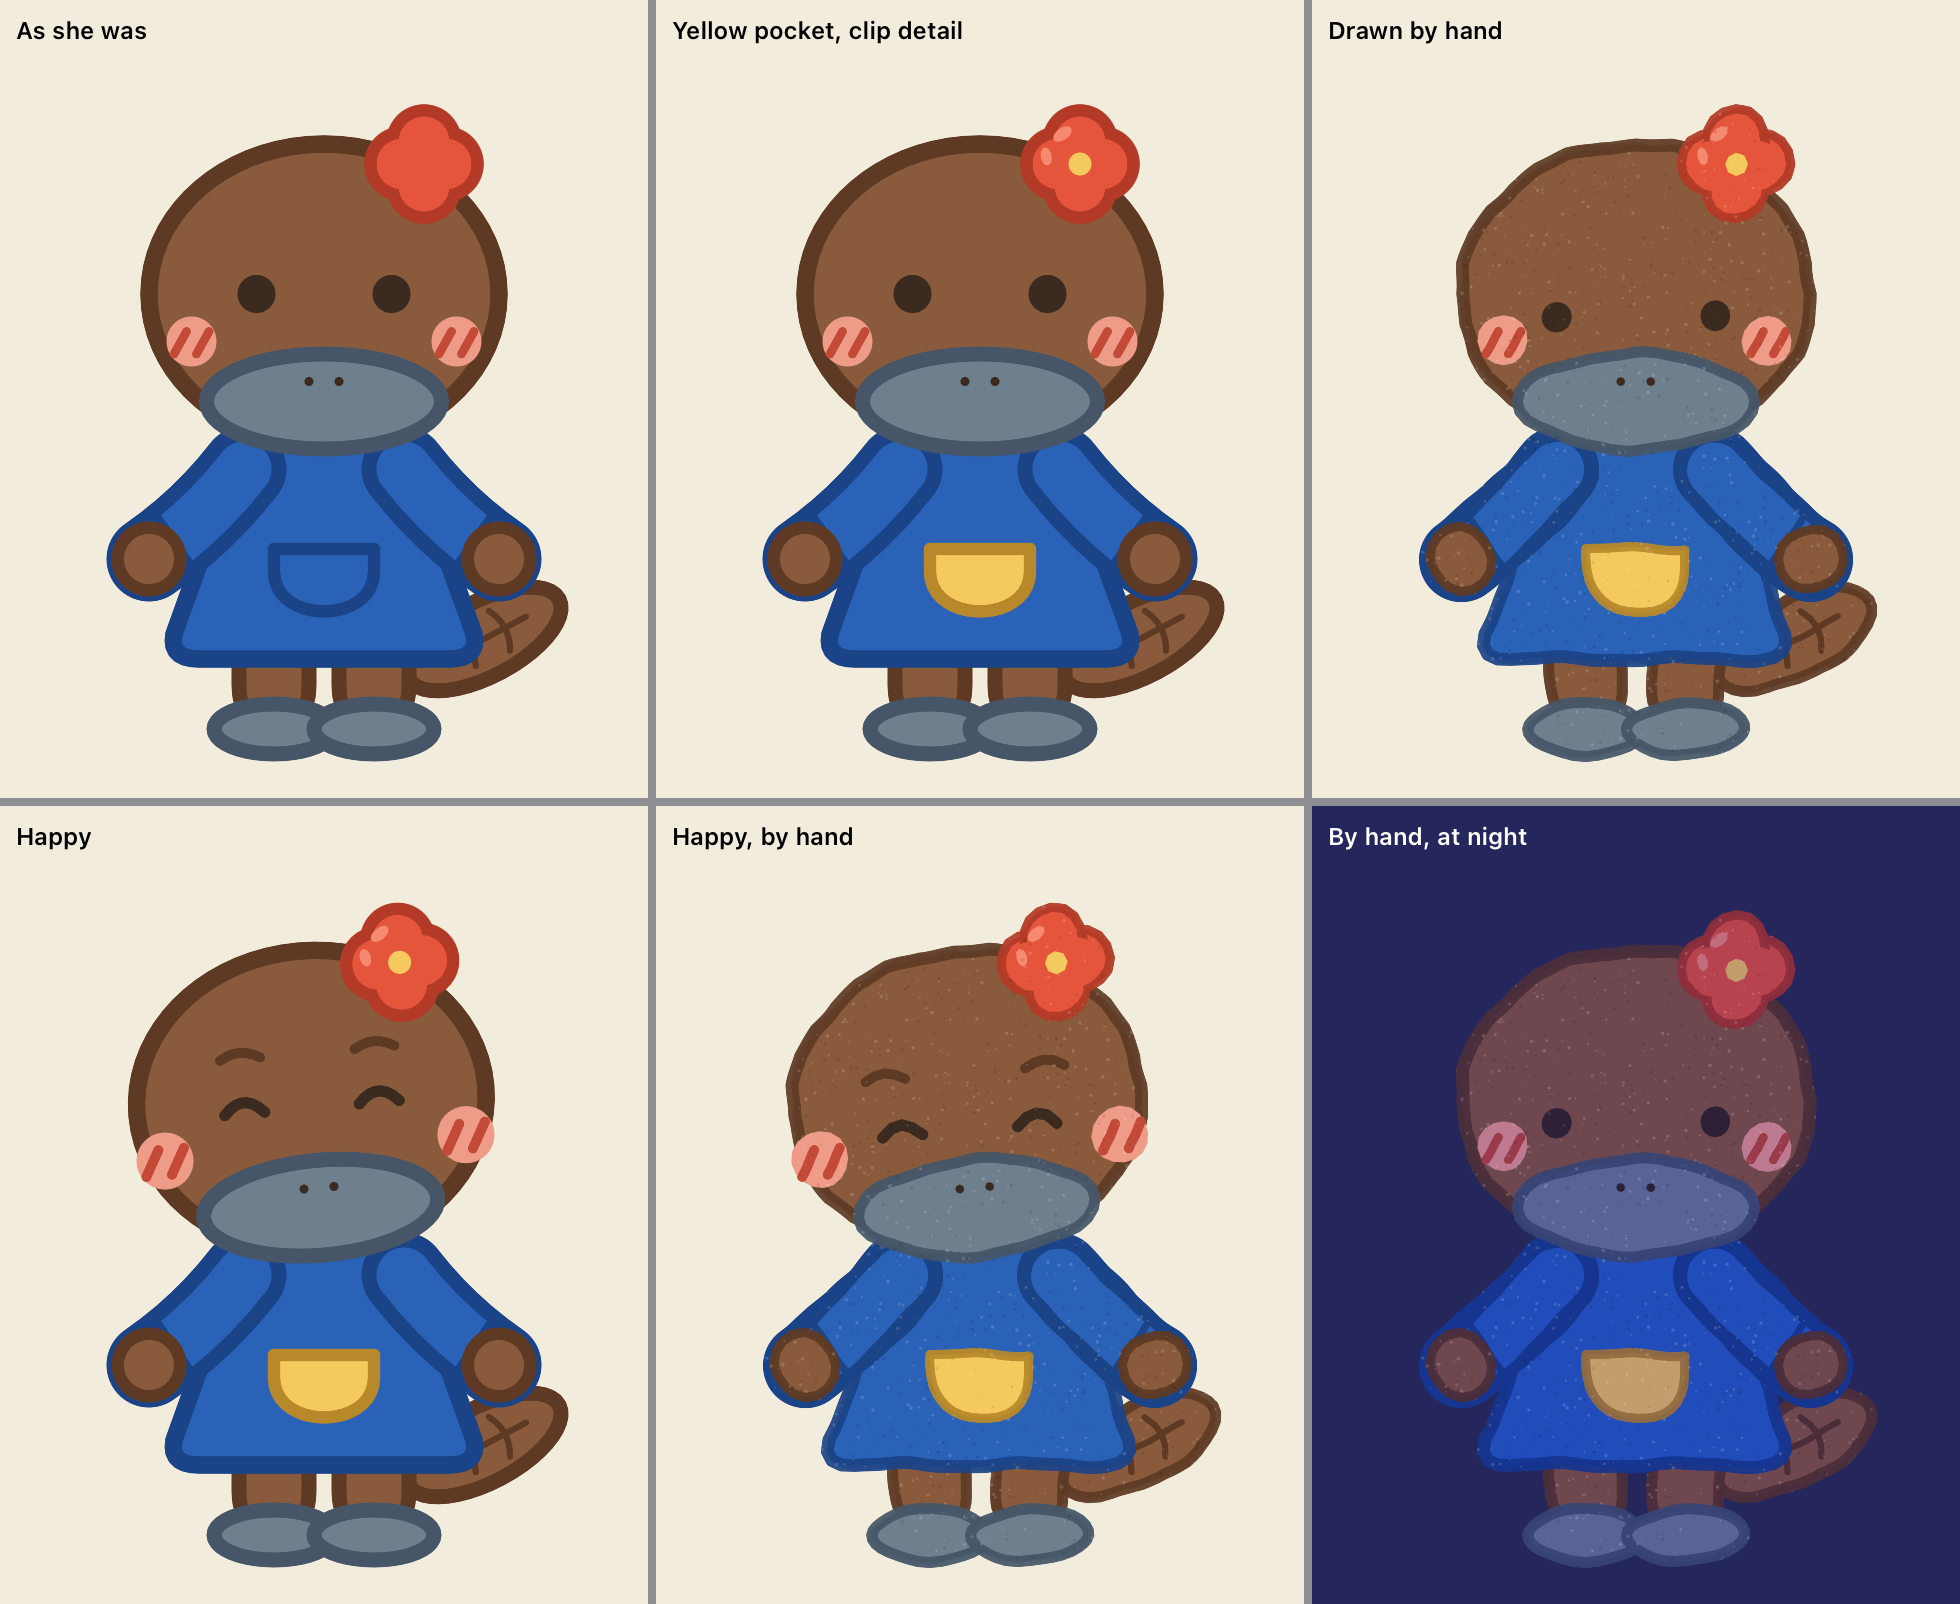
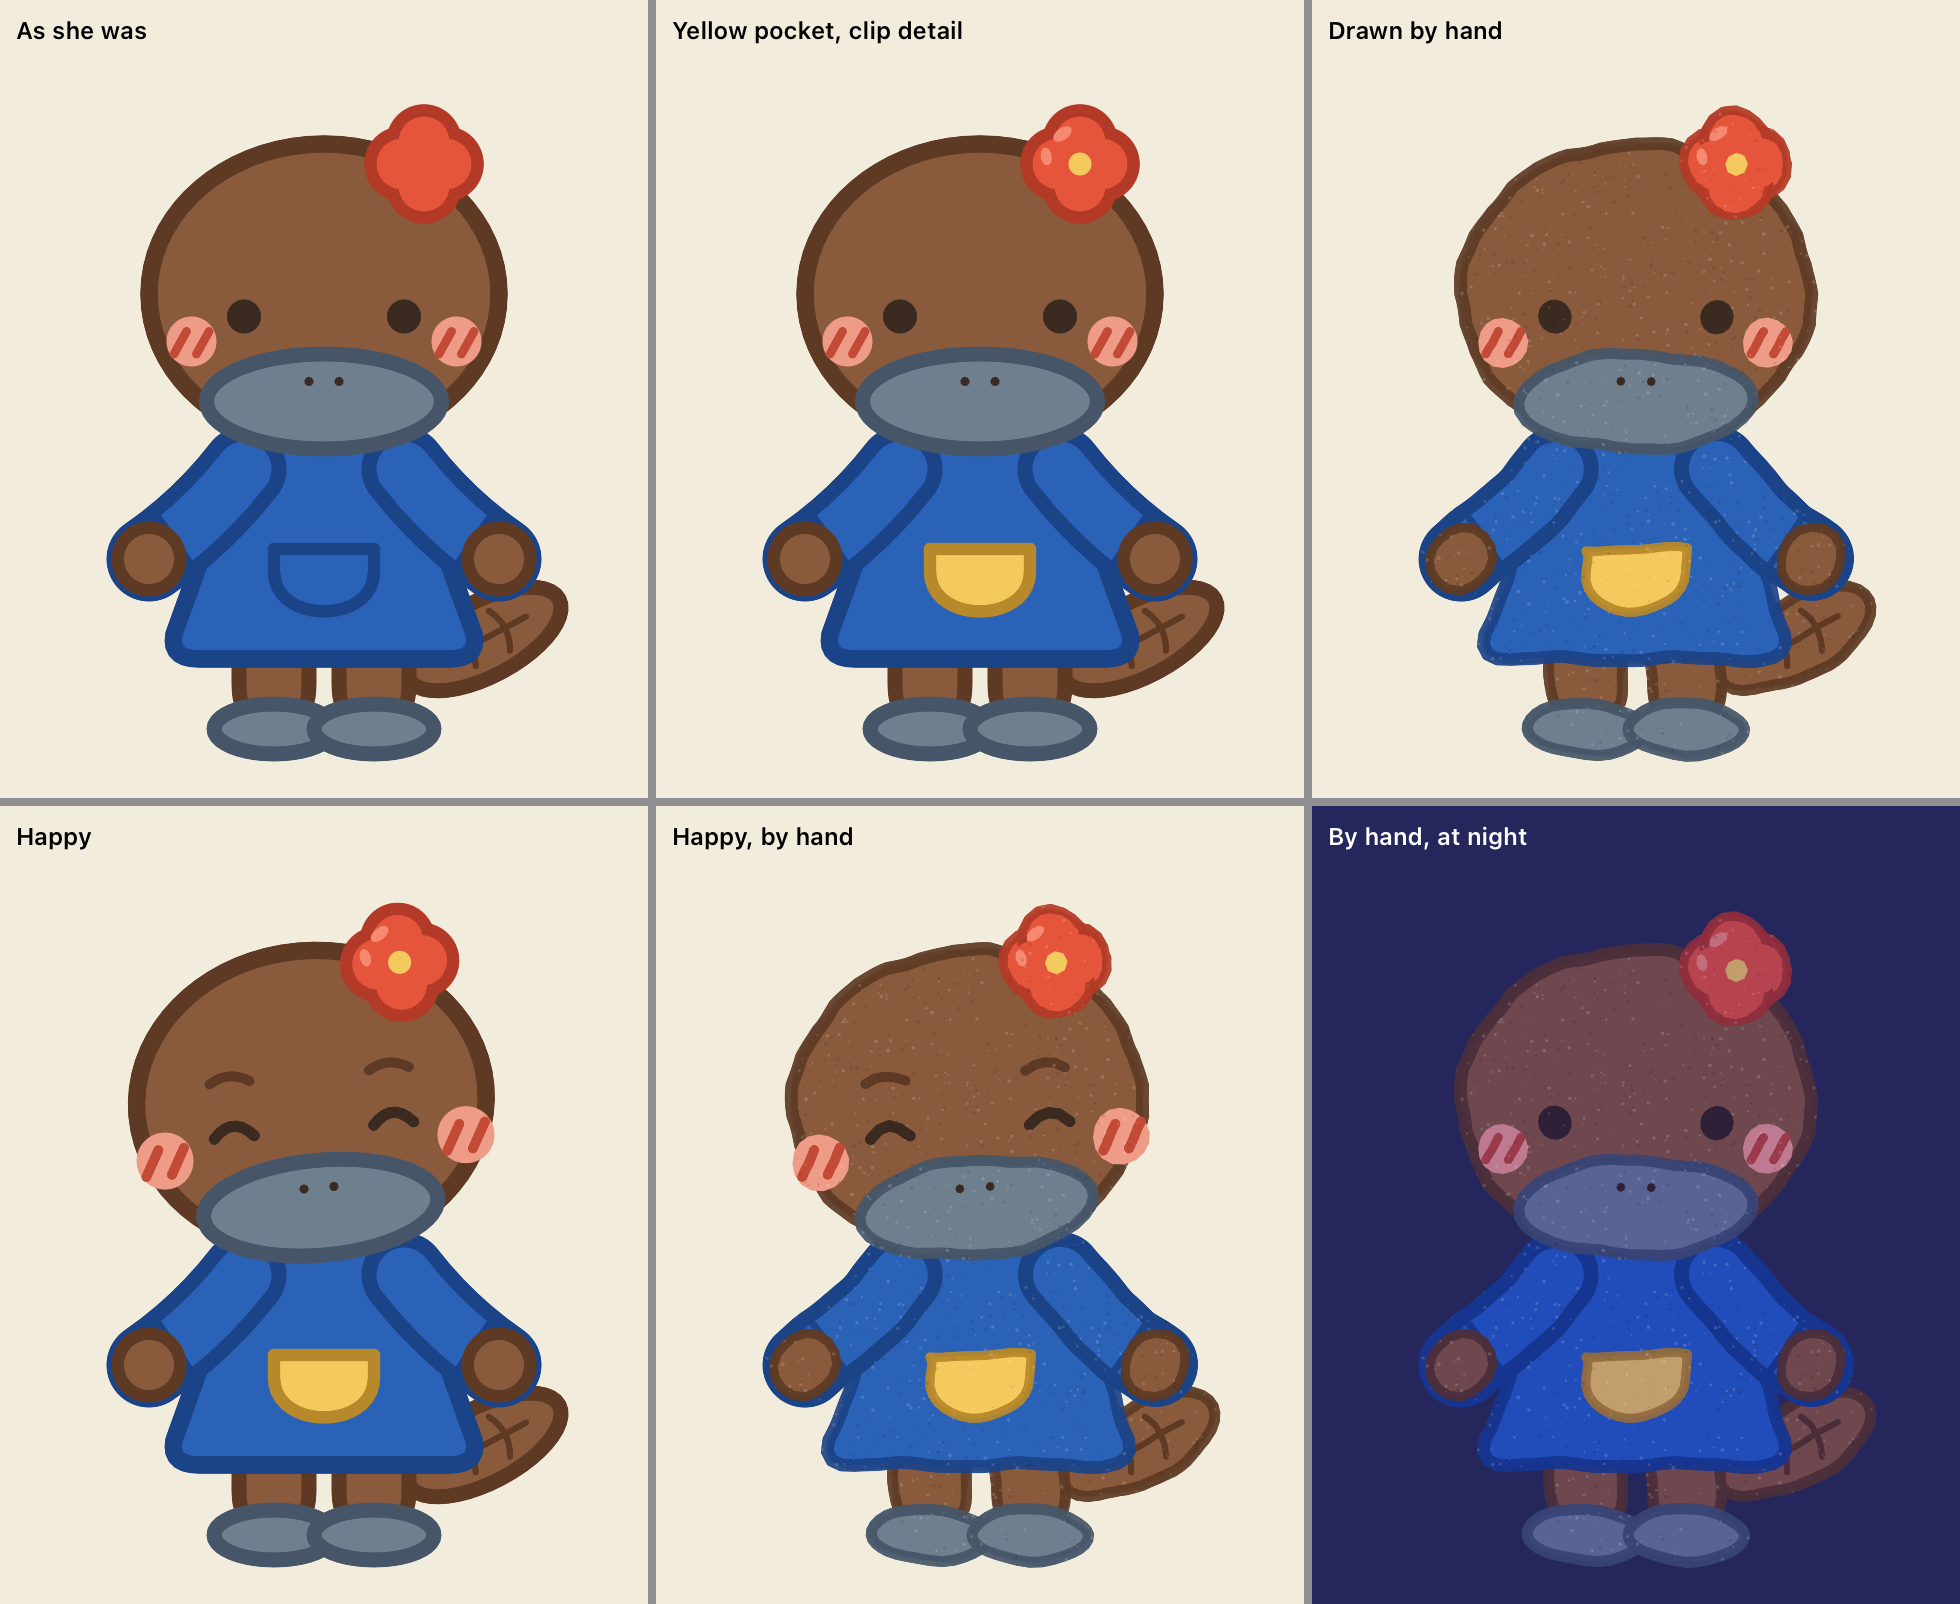
Puggle's eyes sit lower and wider apart, and are a little smaller
Taken from the hand-drawn test and made part of how she is always drawn.
She stays in the clean style; hand-drawn remains a Developer option.

diff --git a/app/Puggle/Design/Rig.swift b/app/Puggle/Design/Rig.swift
@@ -197,8 +197,7 @@ enum RigRenderer {
             .scaledBy(x: scale, y: scale)
         var world: [String: CGAffineTransform] = [:]
         for part in rig.parts {
-            var state = states[part.id] ?? .rest
-            if handDrawn { HandDrawn.adjust(&state, for: part.id) }
+            let state = states[part.id] ?? .rest
             let pivot = CGPoint(x: part.pivot[0], y: part.pivot[1])
             // About the pivot: scale, then turn, then shift.
             let local = CGAffineTransform(translationX: pivot.x + state.x, y: pivot.y + state.y)
@@ -506,22 +505,10 @@ struct RigFrame: View {
 
 // MARK: Drawn by hand
 
-/// The hand-drawn look: outlines that waver, smaller eyes set wide and low, and a paper grain.
+/// The hand-drawn look: outlines that waver and a paper grain. (Her eyes, once part of it, are now how she is always drawn.)
 enum HandDrawn {
     private static var paths: [String: Path] = [:]
     private static var specks: (light: Path, dark: Path)?
-
-    /// Her eyes sit lower and wider apart and are a touch smaller, close to the bill.
-    static func adjust(_ state: inout PartState, for part: String) {
-        let side: Double = part.hasSuffix("left") ? -1 : (part.hasSuffix("right") ? 1 : 0)
-        if part.hasPrefix("eye-") {
-            state.x += 5 * side; state.y += 9; state.sx *= 0.8; state.sy *= 0.8
-        } else if part.hasPrefix("eyes-") {
-            state.y += 9
-        } else if part.hasPrefix("brow-") {
-            state.x += 5 * side; state.y += 8
-        }
-    }
 
     /// The path with a slow waver along it, the same every time for the same key.
     static func wavering(_ path: Path, key: String, phase: Double) -> Path {
